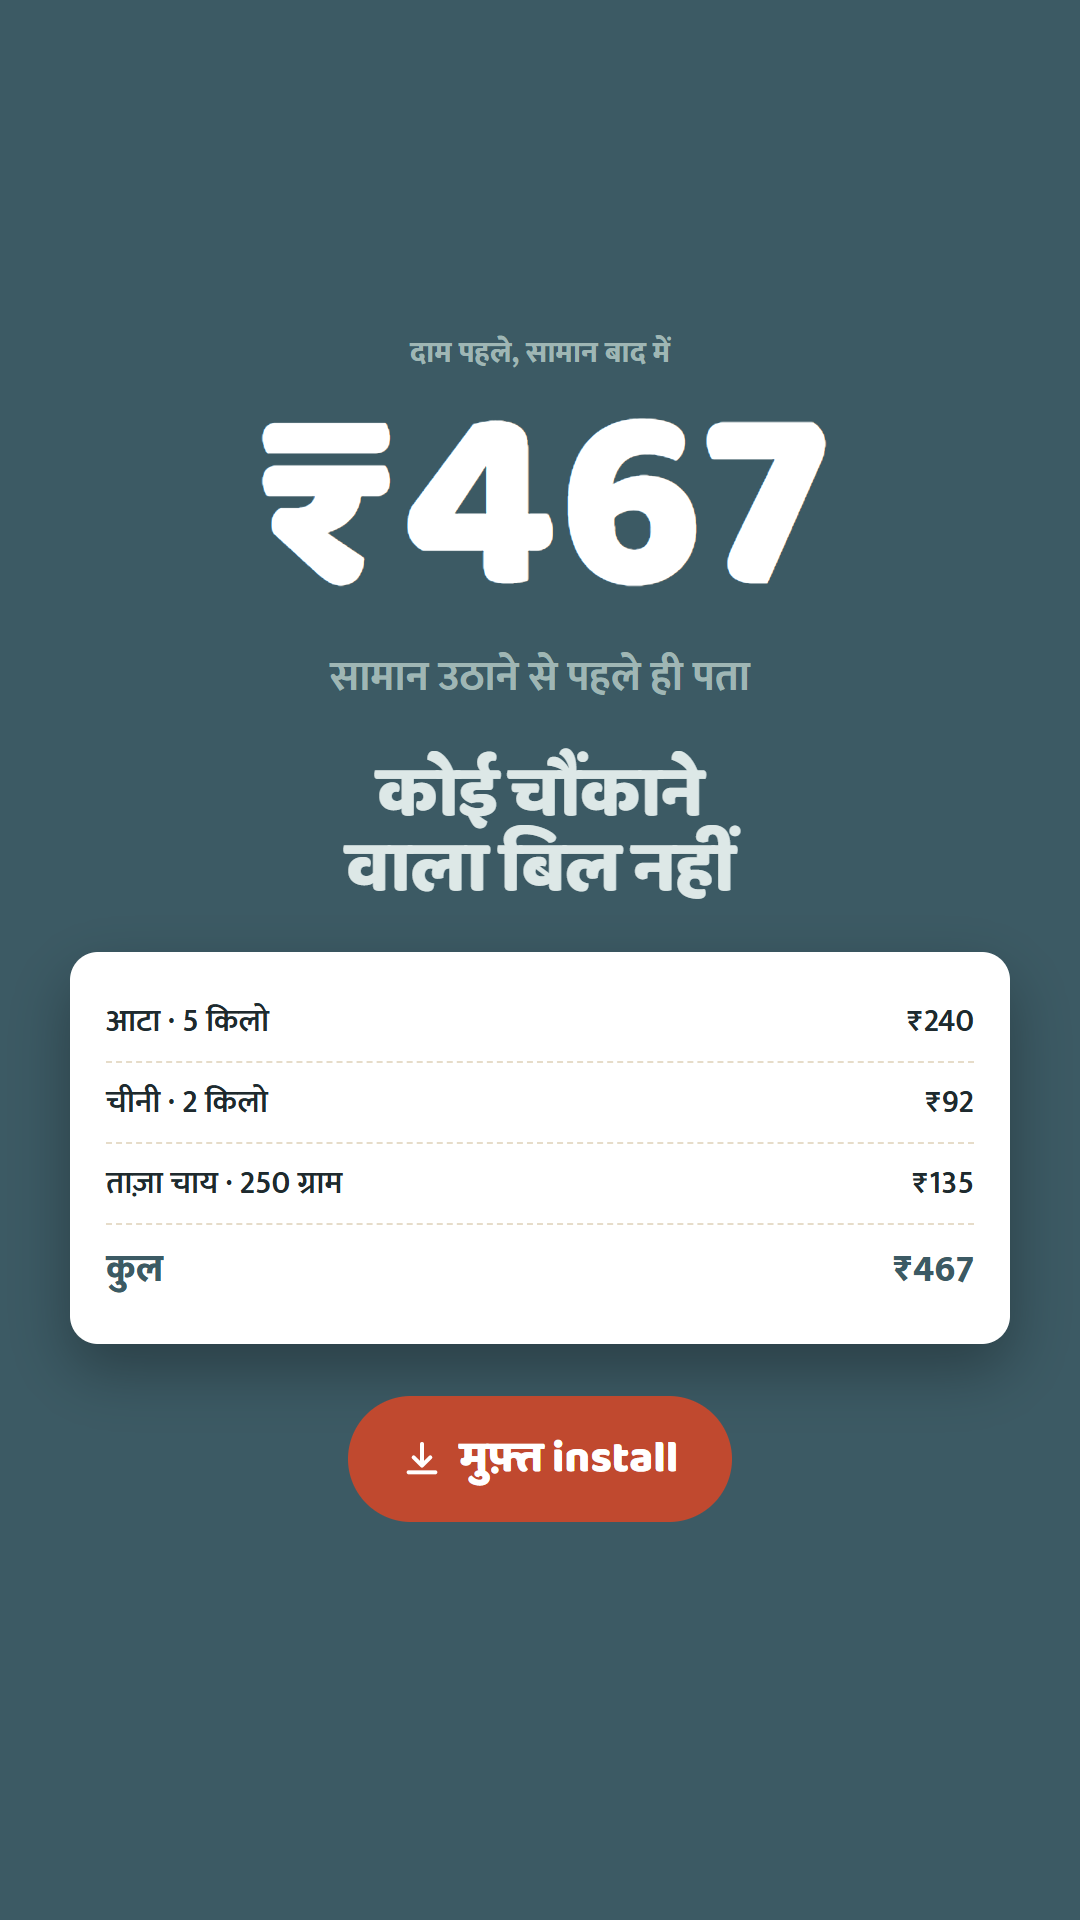
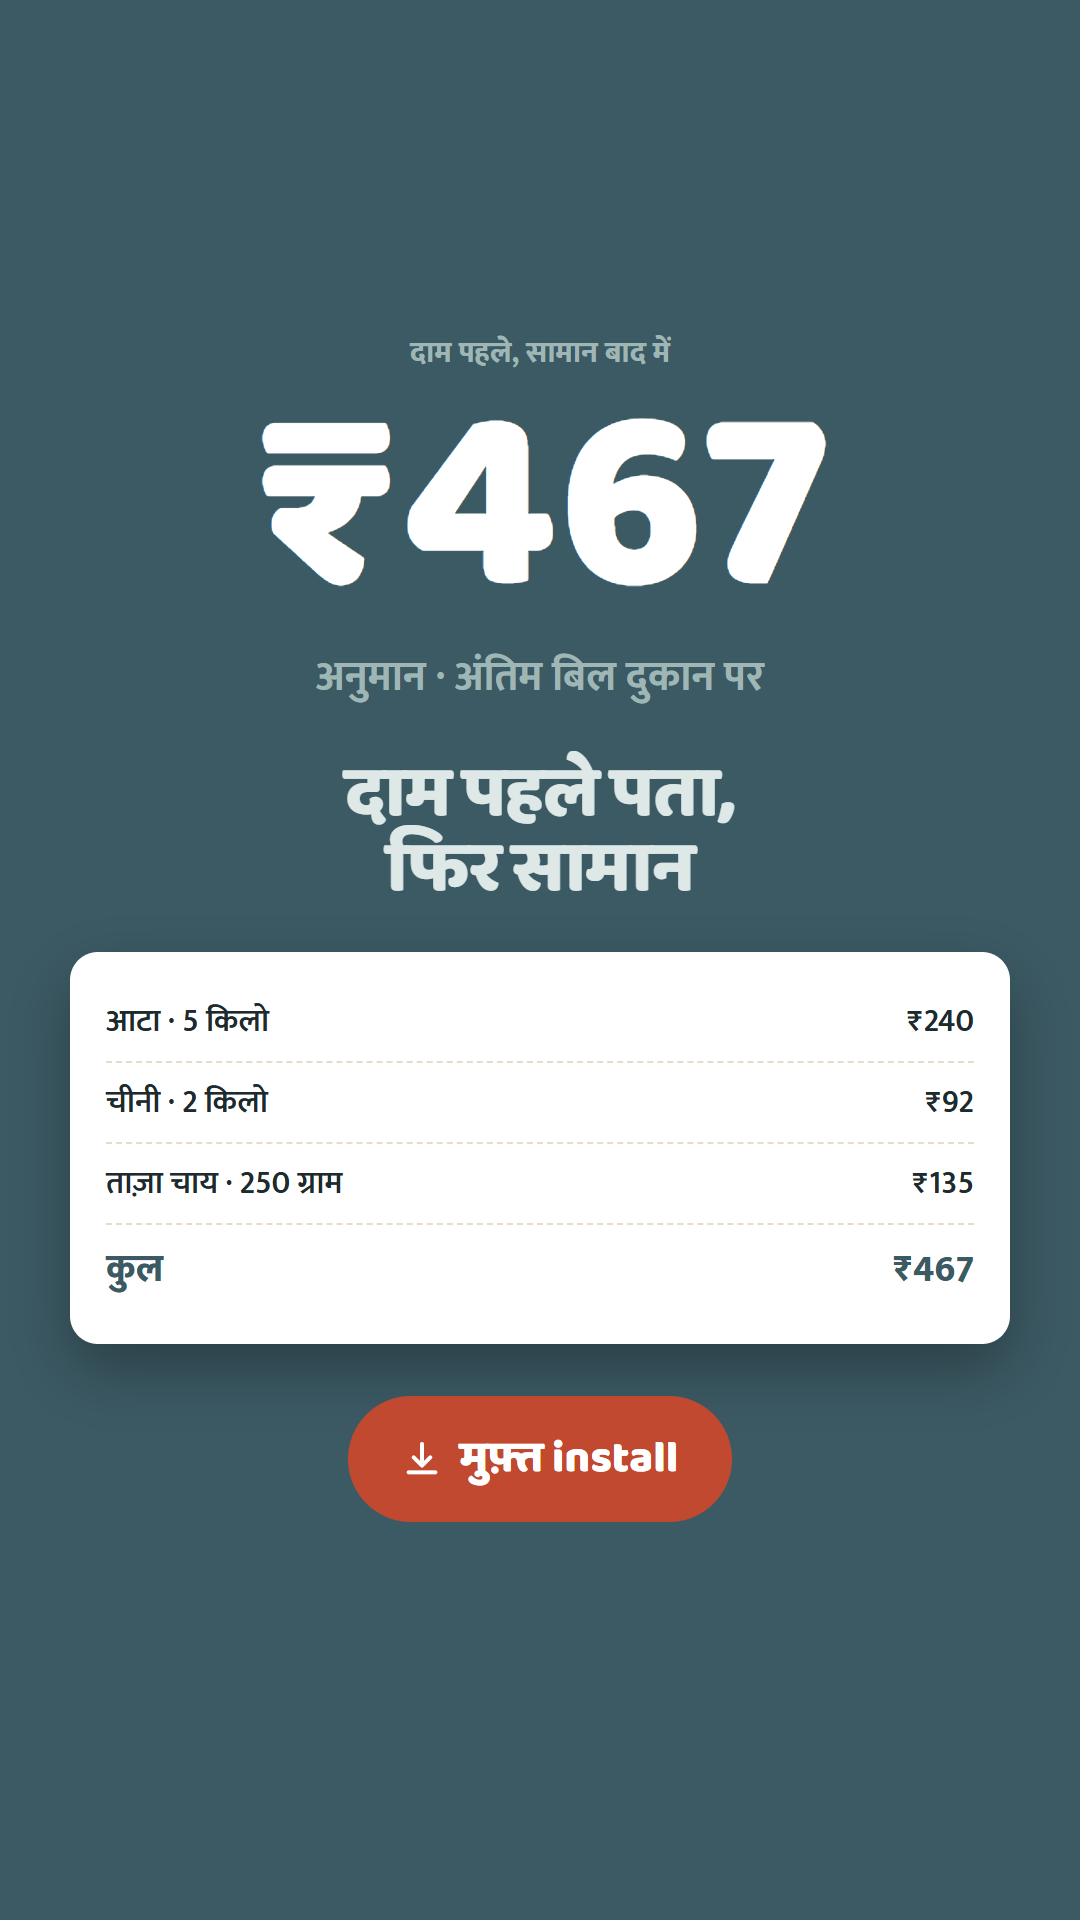
fix: no claim the shop cannot stand behind
- The product page said "only N left" from a stock number that orders
  never reduce. That is false urgency under the CCPA dark-pattern
  guidelines. It now says in stock or out of stock, never a count.
- The price banner promised "no shocking bill" while the shop's own
  terms say the final bill is made at the counter. It now says the price
  is known first, with "estimate, final bill at the shop" in the same
  frame.

Changed region(s): [[0.275, 0.3438, 0.7028, 0.4688]]

diff --git a/marketing/stories/variants.html b/marketing/stories/variants.html
@@ -224,8 +224,8 @@ h1{font-family:"Baloo 2","Nirmala UI",sans-serif;font-weight:800;line-height:1.0
   <div class="pad">
     <div class="kicker">दाम पहले, सामान बाद में</div>
     <div class="big">₹467</div>
-    <div class="strike">सामान उठाने से पहले ही पता</div>
-    <h1>कोई चौंकाने<br>वाला बिल नहीं</h1>
+    <div class="strike">अनुमान · अंतिम बिल दुकान पर</div>
+    <h1>दाम पहले पता,<br>फिर सामान</h1>
     <div class="card">
       <div class="line"><span>आटा · 5 किलो</span><span>₹240</span></div>
       <div class="line"><span>चीनी · 2 किलो</span><span>₹92</span></div>

diff --git a/mobile/src/screens/ProductDetailsScreen.tsx b/mobile/src/screens/ProductDetailsScreen.tsx
@@ -261,10 +261,11 @@ export function ProductDetailsScreen() {
           <View className="flex-row flex-wrap items-center gap-2">
             <Badge>{product.category?.name}</Badge>
             {product.stock > 0 ? (
+              // In stock or not, never a count. `stock` is whatever the shop
+              // last typed and is not reduced by orders, so "only 3 left"
+              // would be a scarcity claim nobody can stand behind.
               <Badge className="border-primary/30 bg-secondary">
-                {product.stock <= 5
-                  ? t("product.onlyLeft", { count: product.stock })
-                  : t("product.inStock")}
+                {t("product.inStock")}
               </Badge>
             ) : (
               <Badge className="border-0 bg-destructive">

diff --git a/mobile/src/lib/i18n/hi.ts b/mobile/src/lib/i18n/hi.ts
@@ -187,7 +187,6 @@ export const hi: Translations = {
     signInToSave: "सेव करने के लिए साइन इन करें",
     wishlistFailed: "अपडेट नहीं हो सका। कृपया फिर कोशिश करें।",
     notLoaded: "यह सामान लोड नहीं हो सका।",
-    onlyLeft: "सिर्फ़ {{count}} बचे",
     inStock: "उपलब्ध है",
     outOfStock: "स्टॉक में नहीं",
     imageNoteTitle: "इस तस्वीर के बारे में",

diff --git a/mobile/src/lib/i18n/en.ts b/mobile/src/lib/i18n/en.ts
@@ -189,7 +189,6 @@ export const en = {
     signInToSave: "Sign in to save",
     wishlistFailed: "Could not update. Please try again.",
     notLoaded: "This product could not be loaded.",
-    onlyLeft: "Only {{count}} left",
     inStock: "In stock",
     outOfStock: "Out of stock",
     // The photo disclaimer, shown from the (i) on a card. FMCG packaging
